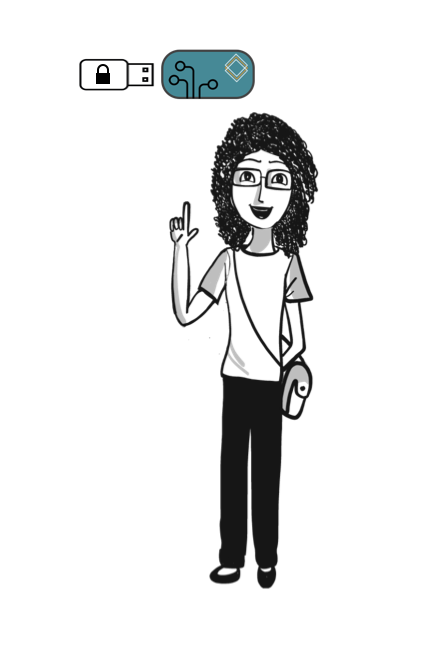
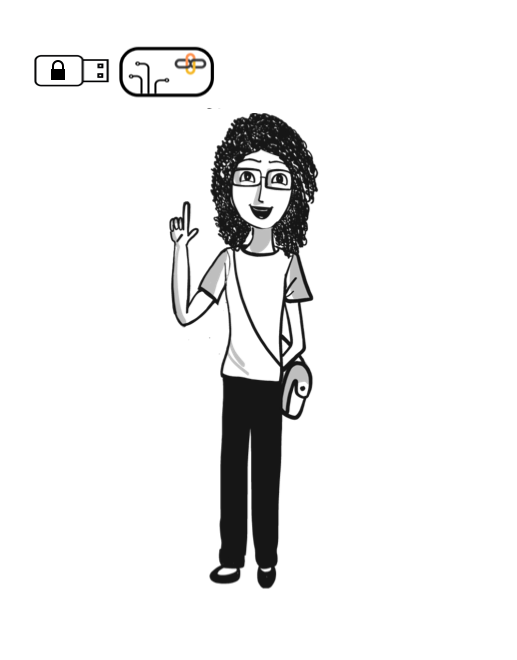
Improved color scheme of the intro page.

Changed region(s): [[0.0588, 0.0606, 0.7353, 0.9091]]

diff --git a/_includes/about.html b/_includes/about.html
@@ -5,7 +5,7 @@
               <br/><br/>
               <h2>About MIDL</h2>
               <br/>
-                <p>A <u>M</u>anaged <u>I</u>nfrustructure for <u>D</u>istributed <u>L</u>edgers.</p>
+                <p>A Managed Infrustructure for Distributed Ledgers.</p>
                 <p>We help you stake your cryptocurrency. You are in full control.</p>
                 <p>We provide you with a signing device. Keep it online - we take care of the rest.</p>
                 <br/>

diff --git a/_includes/header.html b/_includes/header.html
@@ -40,7 +40,7 @@
 			<div class="row">
 				<div class="col-lg-12">
 					<div class="intro-message">
-                        <div class="site-masthead">
+                        <div class="class="col-lg-6></div>
                             <!--<img class="img-responsive" src="img/MIDLLOGO.png" alt="{{site.title}}">-->
 						<h1>{{ page.subTitle }}</h1>
 						<hr class="intro-divider">

diff --git a/index.html b/index.html
@@ -1,5 +1,5 @@
 ---
 layout: default
 title: MIDL
-subTitle: Staking as a service. You hold the keys.
+subTitle: Staking as a service. <p>You hold the keys.</p>
 ---
